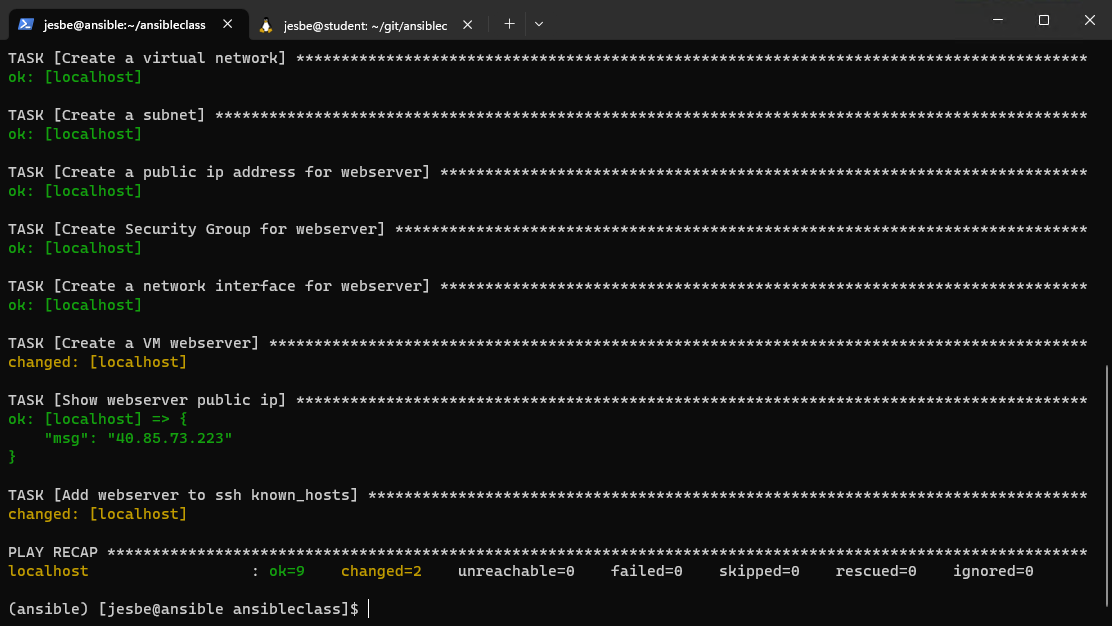
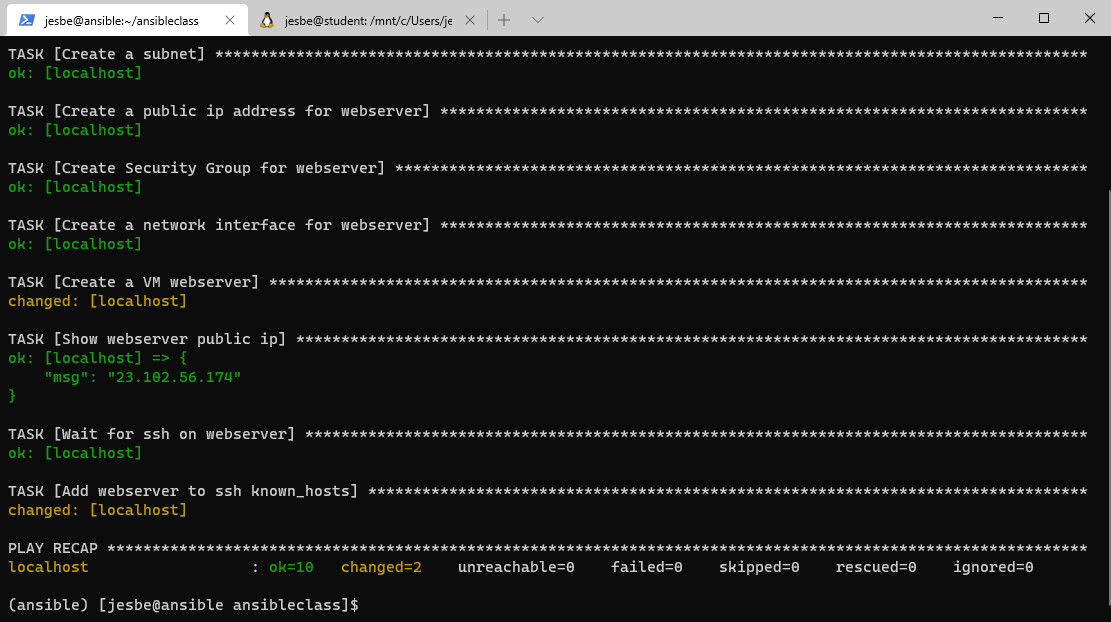
updated linux vm to 9.1 and minor fixes

Changed region(s): [[0.0, 0.0, 1.0, 0.9775], [0.2754, 0.9469, 0.3366, 0.9775], [0.2142, 0.9469, 0.2448, 0.9775]]

diff --git a/website/content/lab09/task4/_index.md b/website/content/lab09/task4/_index.md
@@ -91,6 +91,8 @@ ansible-playbook 02_azure.yml
 
 [Ansible Module shell](https://docs.ansible.com/ansible/latest/modules/shell_module.html#shell-module)
 
+[ANsible Module Wait_for](https://docs.ansible.com/ansible/latest/collections/ansible/builtin/wait_for_module.html)
+
 Add the virtualmachine task to the 02_azure.yml playbook
 
 In VSCode add the next sections to the 02_azure.yml playbook
@@ -123,6 +125,13 @@ In VSCode add the next sections to the 02_azure.yml playbook
     - name: Show webserver public ip
       debug:
         msg: "{{ webserver_pub_ip.state.ip_address }}"
+
+    - name: Wait for ssh on webserver
+      ansible.builtin.wait_for:
+        host: "{{ webserver_pub_ip.state.ip_address }}"
+        port: 22
+        delay: 10
+        timeout: 600
 
     - name: Add webserver to ssh known_hosts
       shell: "ssh-keyscan -t ecdsa {{ webserver_pub_ip.state.ip_address }}  >> /home/{{ user }}/.ssh/known_hosts"

diff --git a/website/content/_index.md b/website/content/_index.md
@@ -18,14 +18,14 @@ Envoronment deployed in Microsoft Azure
 
 5 servers
 
-3 - Running Red Hat Enterprise Linux 8
+3 - Running Red Hat Enterprise Linux 9
 Accessible with ssh and http/https
 
 * ansible - 10.1.0.4
 * server1 - 10.1.0.5
 * server2 - 10.1.0.6
 
-2 - Running Windows Server 2019 with GUI
+2 - Running Windows Server 2022 with GUI
 Accessible with winRM and RDP
 
 * server3 - 10.1.0.7

diff --git a/website/content/lab09/task6/_index.md b/website/content/lab09/task6/_index.md
@@ -57,7 +57,7 @@ And change the **- hosts: tag_solution_webserver_jesbe** so it matches your init
         dest: /var/www/html/index.html
         owner: root
         group: root
-        mode: 0755
+        mode: "0755"
 
   handlers:
     - name: Reload firewall

diff --git a/website/content/lab08/task4/_index.md b/website/content/lab08/task4/_index.md
@@ -25,7 +25,7 @@ Add below to the playbook, this will set the member servers dns client to use th
         dns_servers: 10.1.0.7
 
     - name: Reboot member servers
-      win_reboot:
+      ansible.windows.win_reboot:
 
 ```
 
